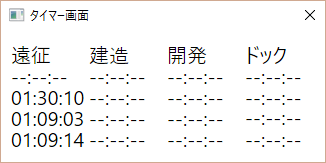
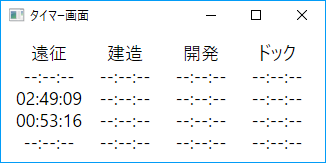
Readmeを修正

diff --git a/WsGH/Properties/Settings.Designer.cs b/WsGH/Properties/Settings.Designer.cs
@@ -12,7 +12,7 @@ namespace WsGH.Properties {
     
     
     [global::System.Runtime.CompilerServices.CompilerGeneratedAttribute()]
-    [global::System.CodeDom.Compiler.GeneratedCodeAttribute("Microsoft.VisualStudio.Editors.SettingsDesigner.SettingsSingleFileGenerator", "14.0.0.0")]
+    [global::System.CodeDom.Compiler.GeneratedCodeAttribute("Microsoft.VisualStudio.Editors.SettingsDesigner.SettingsSingleFileGenerator", "15.0.1.0")]
     internal sealed partial class Settings : global::System.Configuration.ApplicationSettingsBase {
         
         private static Settings defaultInstance = ((Settings)(global::System.Configuration.ApplicationSettingsBase.Synchronized(new Settings())));
@@ -25,7 +25,7 @@ namespace WsGH.Properties {
         
         [global::System.Configuration.ApplicationScopedSettingAttribute()]
         [global::System.Diagnostics.DebuggerNonUserCodeAttribute()]
-        [global::System.Configuration.DefaultSettingValueAttribute("1.1.2.0")]
+        [global::System.Configuration.DefaultSettingValueAttribute("1.1.3.0")]
         public string Version {
             get {
                 return ((string)(this["Version"]));

diff --git a/WsGH/Properties/AssemblyInfo.cs b/WsGH/Properties/AssemblyInfo.cs
@@ -51,5 +51,5 @@ using System.Windows;
 // すべての値を指定するか、下のように '*' を使ってビルドおよびリビジョン番号を 
 // 既定値にすることができます:
 // [assembly: AssemblyVersion("1.0.*")]
-[assembly: AssemblyVersion("1.1.2.0")]
-[assembly: AssemblyFileVersion("1.1.2.0")]
+[assembly: AssemblyVersion("1.1.3.0")]
+[assembly: AssemblyFileVersion("1.1.3.0")]

diff --git a/help/help.md b/help/help.md
@@ -50,6 +50,7 @@
 
 - ウィンドウタイトル：《資材記録画面|SupplyWindow》
 - 燃料・弾薬・鋼材・ボーキサイト・ダイヤモンドの推移が表示されます
+- 画面下には、各日付毎の資材の変化量がListViewで表示されます
 - 資材記録は60分毎に更新されます
 - グラフ(折れ線)において、X軸は時刻ですが、Y軸は右がダイヤ・左がそれ以外となっています
 - 資材量は随時MainSupply.csvに書き出されます。起動時はそこから読み込みます

diff --git a/help/history.md b/help/history.md
@@ -1,5 +1,11 @@
 # WarshipGirls Helper 更新履歴
 
+## Ver.1.1.3(2017/07/11)
+- 遠征番号が変わったのでそれを反映させた
+- 資材の各日毎の増分量を表示するListViewを実装した
+- 時間を24時間表記で表示するようにした
+- 母港認識判定を厳密化した
+
 ## Ver.1.1.2(2017/03/11)
 - 遠征および開発画面における数字の認識精度を向上させた
 - 資材記録画面のコンボボックスが妙に細く感じたので修正
